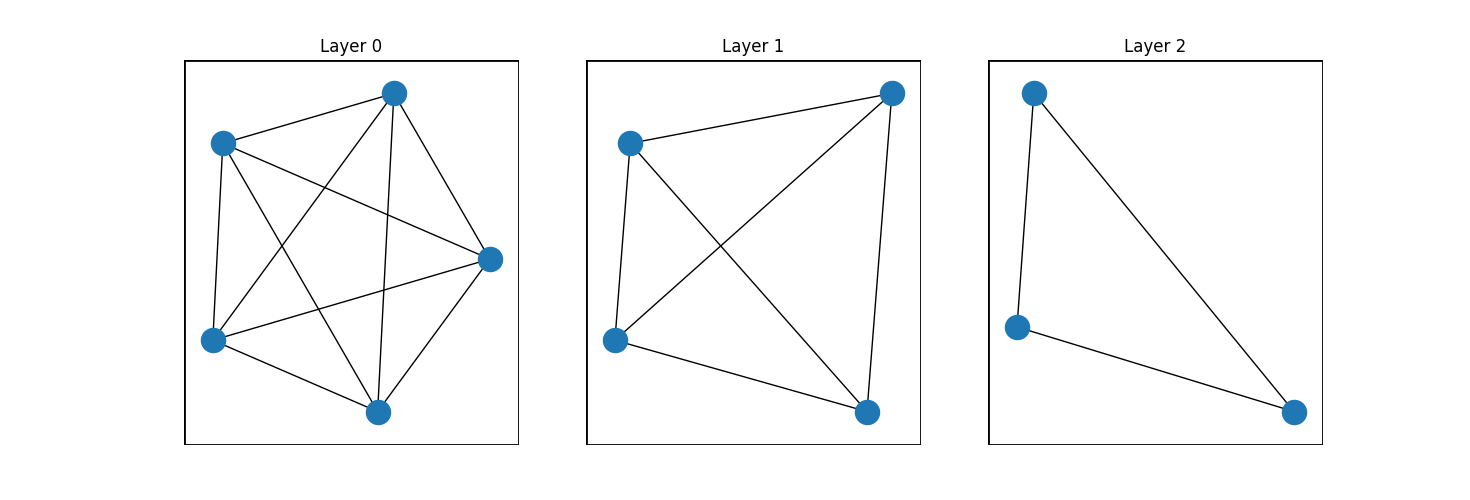
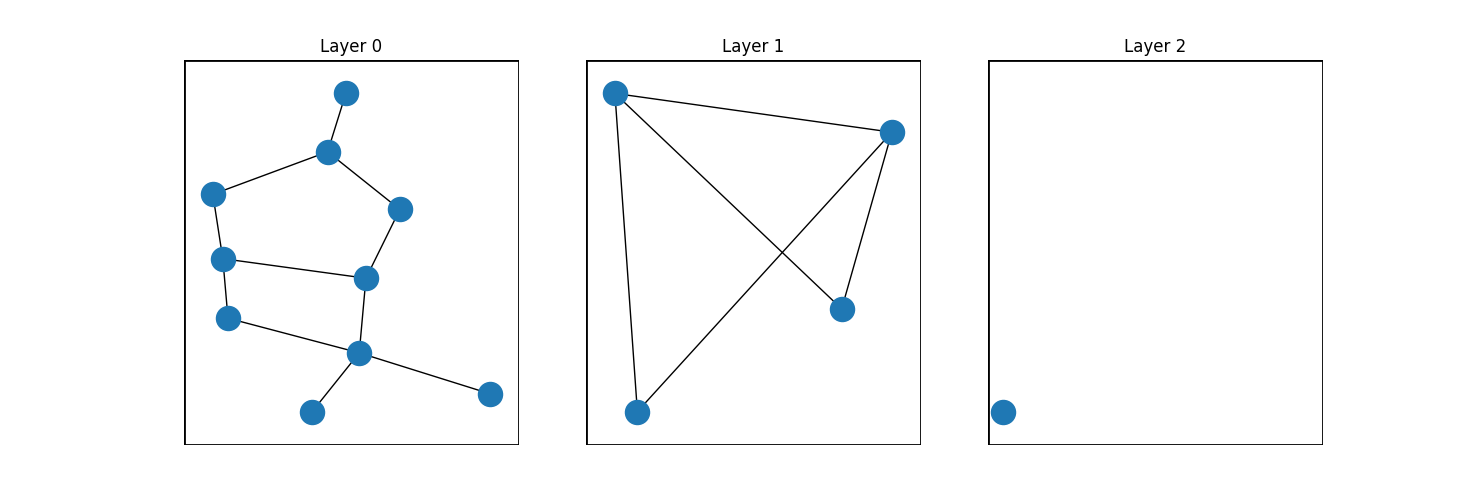
First pass at HNSW add (using full kNN instead of approximate)

diff --git a/tinyhnsw/hnsw.py b/tinyhnsw/hnsw.py
@@ -1,5 +1,6 @@
 from __future__ import annotations
 from tinyhnsw.index import Index
+from tinyhnsw.knn import FullNNIndex
 from matplotlib.patches import Rectangle
 
 import numpy
@@ -25,40 +26,57 @@ class HNSWIndex(Index):
         # m_L
         self.m_L = 1.0 / math.log(M)
 
-        self.graphs = []
+        self.graphs = [networkx.Graph()]
         self.entry_point = None
-        self.L = -1
+        self.L = 0
         self.current_ix = 0
+
+        self.temp_index = FullNNIndex(self.d)
 
     def add(self, vectors: numpy.ndarray) -> None:
         for vector in vectors:
             self.add_one(vector)
+            self.temp_index.add(numpy.expand_dims(vector, axis=0))
 
     def add_one(self, vector: numpy.ndarray) -> None:
         level = self.assign_level()
 
-        # for current_level in range(self.L, -1, -1):
-        #     if current_level > level:
-        #         distance, point = self.search(vector, k=1)
-
         if level > self.L:
-            for i in range(self.L + 1, level + 1):
+            for i in range(self.L + 1, level):
                 G = networkx.Graph()
                 G.add_node(self.current_ix)
                 self.entry_point = self.current_ix
-                # self.graphs.append(G)
-                self.graphs.append(networkx.complete_graph(5 - i))
-            self.L = level
+                self.graphs.append(G)
 
+        for i in range(min(level, self.L) + 1):
+            self.graphs[i].add_node(self.current_ix)
+            self.set_edges(self.current_ix, vector, i)
+            neighbors = list(self.graphs[i][self.current_ix])
+
+            for neighbor in neighbors:
+                if len(self.graphs[i][neighbor]) > self.M_max:
+                    self.set_edges(neighbor, self.temp_index.vectors[neighbor], i)
+
+        self.L = level
         self.current_ix += 1
+
+    def set_edges(self, node, vector, layer):
+        # remove all connected edges
+        self.graphs[layer].remove_node(node)
+        self.graphs[layer].add_node(node)
+
+        _, neighbors = self.search(numpy.expand_dims(vector, axis=0), k=self.M)
+        self.graphs[layer].add_edges_from([(self.current_ix, n) for n in neighbors[0]])
 
     def search(
         self, query: numpy.ndarray, k: int
     ) -> tuple[numpy.ndarray, numpy.ndarray]:
-        return ()
+        return self.temp_index.search(query, k)
 
     def assign_level(self) -> int:
-        return math.floor(-math.log(random.random()) * self.m_L)
+        level = min(3, math.floor(-math.log(random.random()) * self.m_L))
+        print(level)
+        return level
 
 
 def visualize_hnsw_index(index: HNSWIndex):
@@ -70,6 +88,7 @@ def visualize_hnsw_index(index: HNSWIndex):
     _, axs = plt.subplots(1, len(index.graphs), figsize=(len(index.graphs) * 5, 5))
 
     layout = networkx.spring_layout(index.graphs[0])
+
     for i, graph in enumerate(index.graphs):
         graph_layout = {k: v for k, v in layout.items() if k in graph}
         networkx.draw(graph, graph_layout, ax=axs[i])
@@ -91,8 +110,8 @@ def visualize_hnsw_index(index: HNSWIndex):
 
 
 if __name__ == "__main__":
-    index = HNSWIndex(100, 3)
-    vectors = numpy.random.randn(10, 5)
+    index = HNSWIndex(10, 3)
+    vectors = numpy.random.randn(10, 10)
     index.add(vectors)
 
     visualize_hnsw_index(index)

diff --git a/tinyhnsw/knn.py b/tinyhnsw/knn.py
@@ -14,7 +14,7 @@ class FullNNIndex(Index):
 
     def __init__(self, d: int) -> None:
         super().__init__(d)
-        self.is_trained = True
+        self.is_trained = False
         self.vectors = None
 
     def add(self, vectors: numpy.ndarray) -> None:
@@ -22,6 +22,7 @@ class FullNNIndex(Index):
 
         if self.vectors is None:
             self.vectors = vectors
+            self.is_trained = True
         else:
             self.vectors = numpy.append(self.vectors, vectors, axis=0)
 
@@ -30,6 +31,9 @@ class FullNNIndex(Index):
     def search(
         self, query: numpy.ndarray, k: int
     ) -> tuple[numpy.ndarray, numpy.ndarray]:
+        if not self.is_trained:
+            return ([[]], [[]])
+        
         similarity = cosine_similarity(self.vectors, query)
         indices = (-similarity).argsort(axis=0)[:k, :].T
         scores = numpy.array(
